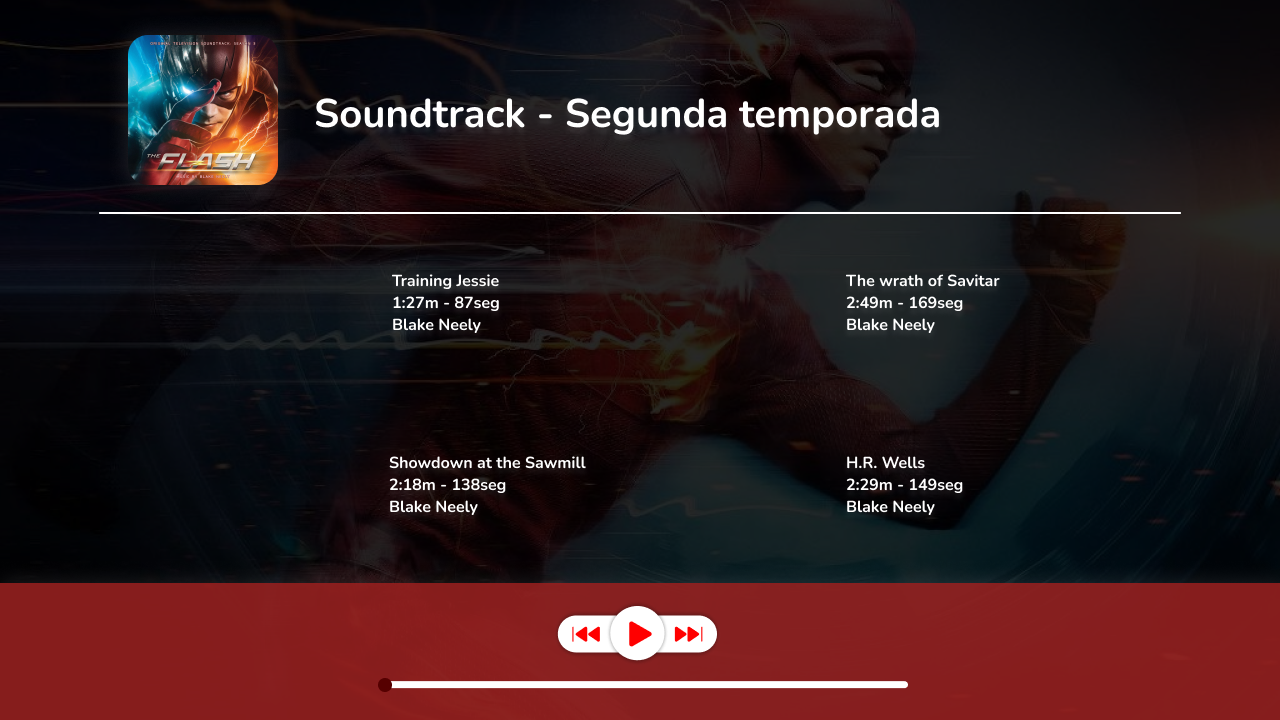
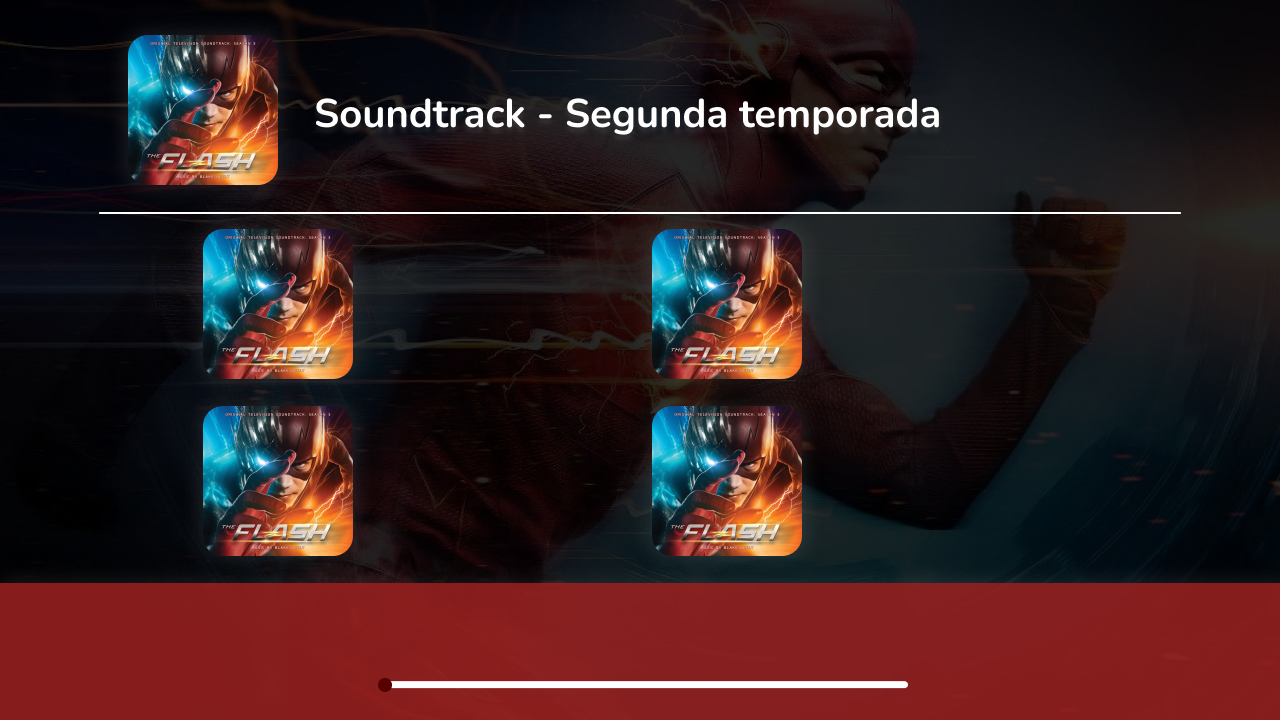
Onceavo commit

diff --git a/imagenes.js b/imagenes.js
@@ -4,7 +4,7 @@ class Imagenes{
         this.menu = loadImage('./Images/Menu.jpg');
         this.primeraPagina = loadImage('./Images/PrimeraPagina.png');
         this.segundaPagina = loadImage('./images/SegundaPagina.png');
-        this.caciones = loadImage('./images/Canciones.png')
+        this.canciones = loadImage('./images/Canciones.png')
         this.terceraPagina = loadImage('./images/TerceraPagina.png');
         this.boton0 = new Botones({
             x: 459,
@@ -41,6 +41,28 @@ class Imagenes{
             h: 50,
             image: loadImage('./images/Devolver.png')
         })
+        this.reproducir = new Botones({
+            x: 610,
+            y: 635,
+            b: 30,
+            h: 45,
+            image: loadImage('./images/Reproducir.png')
+        })
+        this.avanzar1 = new Botones({
+            x: 650,
+            y: 635,
+            b: 32,
+            h: 65,
+            image: loadImage('./images/Avanzar1.png')
+        })
+        this.avanzar2 = new Botones({
+            x: 567,
+            y: 635,
+            b: 32,
+            h: 65,
+            image: loadImage('./images/Avanzar2.png')
+            
+        })
     }
 
     pantalla1(){
@@ -68,10 +90,9 @@ class Imagenes{
         if(this.pantalla === 3){
             image(this.segundaPagina, 600, 360);
             this.devolver.show();
-            this.boton3.show();
-            this.boton3.show();
-            this.boton3.show();
-            this.boton3.show();
+            this.avanzar2.show();
+            this.avanzar1.show();
+            this.reproducir.show();
             imageMode(CENTER);
         }
     }
@@ -79,6 +100,9 @@ class Imagenes{
     pantalla4(){
         if(this.pantalla === 4){
             image(this.terceraPagina, 600, 360);
+            this.avanzar2.show();
+            this.avanzar1.show();
+            this.reproducir.show();
             this.devolver.show();
             imageMode(CENTER);
         }
@@ -86,8 +110,11 @@ class Imagenes{
 
     pantalla5(){
         if(this.pantalla === 5){
-            image(this.caciones, 600, 360);
+            image(this.canciones, 600, 360);
             this.devolver.show();
+            this.avanzar2.show();
+            this.avanzar1.show();
+            this.reproducir.show();
             imageMode(CENTER)
         }
     }

diff --git a/sketch.js b/sketch.js
@@ -1,14 +1,20 @@
 let imagenes;
-let pantalla = 1;
+let pantalla = 3;
 let songs;
+let slider;
+
+function preload(){
+  songs = loadSound("./Songs/Training.mp3");
+}
 
 
 function setup() {
   createCanvas(1220, 720);
   imagenes = new Imagenes(pantalla);
-
+  slider = createSlider(0, 1, 0, 0.01);
+  songs.stop();
 }
-
+ 
 function draw() {
   background(0);
   imagenes.pantalla1();
@@ -16,6 +22,7 @@ function draw() {
   imagenes.pantalla3();
   imagenes.pantalla4();
   imagenes.pantalla5();
+  songs.setVolume(slider.value());
 }
 
 function mousePressed(){

diff --git a/Canciones.js b/Canciones.js
@@ -1,7 +1,8 @@
 class Canciones{
     constructor(nombre, autor, archivo){
         this.nombre = nombre;
-        this.autor = autor;
+        this.duracion = autor;
         this.archivo = archivo;
     }
+    
 }
